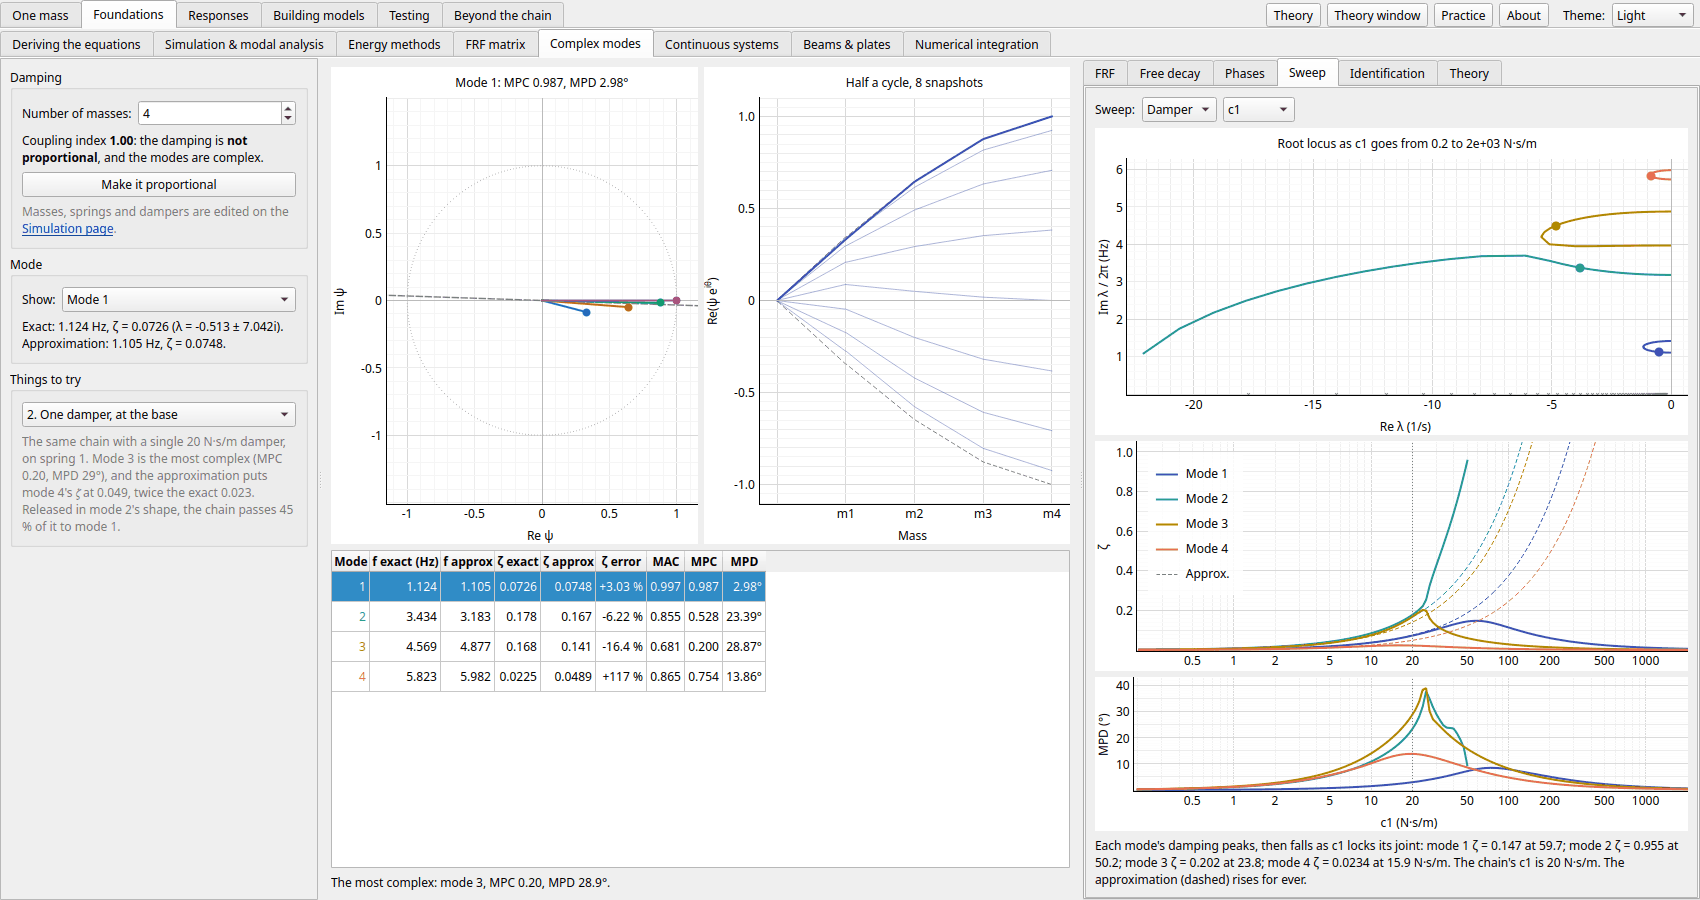
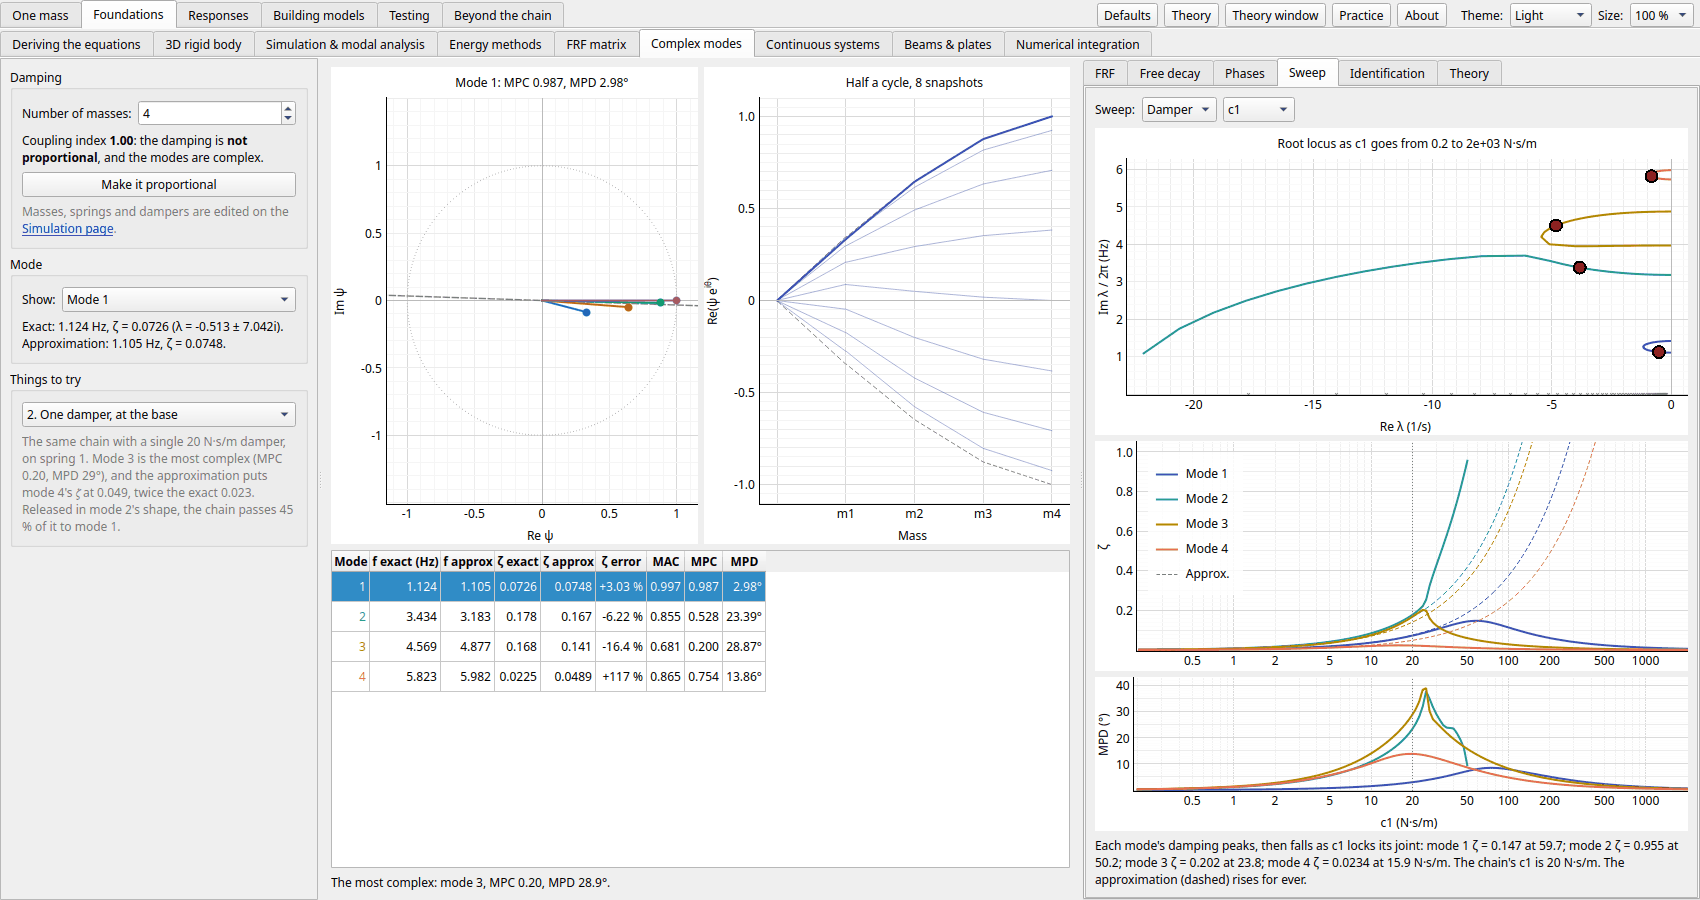
WIP: Self-excited flutter locus drag (#316 B5)

Changed region(s): [[0.0935, 0.0, 0.9976, 0.0622], [0.9665, 0.3733, 0.9976, 0.4044], [0.9041, 0.28, 0.9353, 0.3111]]

diff --git a/src/vib_tutorial/gui/self_excited.py b/src/vib_tutorial/gui/self_excited.py
@@ -2,7 +2,8 @@
 
 Left: the model and its parameters. Centre: its motion from a small start (time history and phase plane), or for
 flutter the two modes' frequencies and damping against the speed. Right: the sweep (the steady amplitude against
-the parameter that drives it, which shows the Hopf point and any hysteresis), and the Theory (its figures:
+the parameter that drives it, which shows the Hopf point and any hysteresis; for flutter the root locus, a pole
+dragged along it setting the speed), and the Theory (its figures:
 gui/self_excited_figures.py). The page has its own models (core/self_excited.py).
 """
 
@@ -29,6 +30,7 @@ from ..core.self_excited import (
     settled_amplitude,
 )
 from . import self_excited_figures, settle_plots
+from .drag import DragDot
 from .lesson import (
     Form,
     TrialBox,
@@ -462,7 +464,10 @@ TIPS = {
     "lift": "<p>Steady, L ∝ θ: the lift follows the pitch alone, a stiffness. Quasi-steady, L ∝ θ + ḣ/U: it also "
     "follows the plunge's ḣ/U, the angle the plunging section sees, which acts as a damping.</p>",
 }
-SWEEP_TIP = "<p>The settled motion against the parameter that drives it; the dotted line is the value set.</p>"
+SWEEP_TIP = (
+    "<p>The settled motion against the parameter that drives it; the dotted line is the value set. For flutter, "
+    "the root locus as the speed rises: drag a pole along it to set the speed, and watch one cross Re λ = 0.</p>"
+)
 
 NOTES_HTML = load_notes("self_excited", figures=self_excited_figures.FIGURES, trials=trials_html(TRIALS))
 
@@ -549,8 +554,21 @@ class SelfExcitedPage(QtWidgets.QWidget):
         self.sweep_stable = marker(7)
         self.sweep_unstable = marker(7)
         self.sweep_line = pg.InfiniteLine(angle=90)
-        for item in (self.sweep_line, self.sweep_theory, self.sweep_curve, self.sweep_stable, self.sweep_unstable):
+        self.flutter_dots = [
+            DragDot("<p>Drag the pole along its locus to set the speed.</p>", size=12) for _ in range(2)
+        ]
+        for item in (
+            self.sweep_line,
+            self.sweep_theory,
+            self.sweep_curve,
+            self.sweep_stable,
+            self.sweep_unstable,
+            *self.flutter_dots,
+        ):
             self.sweep_plot.addItem(item)
+        for dot in self.flutter_dots:
+            dot.setVisible(False)
+            dot.dragged.connect(self._on_flutter_dragged)
         self.sweep2_curve = pg.PlotDataItem()
         self.sweep2_ref = pg.PlotDataItem()
         self.sweep2_line = pg.InfiniteLine(angle=90)
@@ -627,6 +645,19 @@ class SelfExcitedPage(QtWidgets.QWidget):
         self.pages.setCurrentIndex(self.kind.currentIndex())
         self.redraw()
 
+    def _on_flutter_dragged(self, speed: float) -> None:
+        self.boxes["f_speed"].setValue(speed)  # redraws when it changes ...
+        self._place_flutter_dots(self.flutter())  # ... but rounded to the box it may not: the dots at its value
+
+    def _place_flutter_dots(self, flutter: Flutter) -> None:
+        """The poles at the speed set, on the locus."""
+        now = flutter.poles(self.v("f_speed"))
+        now = now[now.imag > 0]
+        for k, grip in enumerate(self.flutter_dots):
+            grip.setVisible(k < now.size)
+            if k < now.size:
+                grip.place(float(now[k].real), float(now[k].imag) / (2 * np.pi), self.v("f_speed"))
+
     def vdp(self) -> VanDerPol:
         return VanDerPol(self.v("vdp_freq"), self.v("vdp_eps"), self.v("vdp_ref"), self.v("vdp_start"))
 
@@ -660,6 +691,8 @@ class SelfExcitedPage(QtWidgets.QWidget):
             item.setPen(pg.mkPen(color, width=1.5))
         for item, color in zip(self.bottom_items, (c.mass[0], c.mass[1])):
             item.setPen(pg.mkPen(color, width=1.5))
+        for grip in self.flutter_dots:
+            grip.apply_theme()
         dot = QtCore.Qt.PenStyle.DotLine
         for line in (self.top_line, self.bottom_line, self.sweep_line, self.sweep2_line):
             line.setPen(pg.mkPen(c.grey, width=1.5, style=dot))
@@ -816,6 +849,8 @@ class SelfExcitedPage(QtWidgets.QWidget):
             self.sweep2_ref,
         ):
             item.setData([], [])
+        for grip in self.flutter_dots:  # shown on flutter's locus only
+            grip.setVisible(False)
         for p in (self.sweep_plot, self.sweep2_plot):
             p.getPlotItem().legend.clear()
         legend = self.sweep_plot.getPlotItem().legend
@@ -888,6 +923,11 @@ class SelfExcitedPage(QtWidgets.QWidget):
             poles = np.array([flutter.poles(float(u)) for u in U])
             up = np.where(poles.imag > 0, poles, np.nan)
             self.sweep_stable.setData(up.real.ravel(), (up.imag / (2 * np.pi)).ravel())
+            on = np.isfinite(up)  # the dots' path: every pole on the locus, its parameter the speed
+            speeds = np.broadcast_to(U[:, None], up.shape)[on]
+            for grip in self.flutter_dots:
+                grip.set_path(up[on].real, up[on].imag / (2 * np.pi), speeds)
+            self._place_flutter_dots(flutter)
             legend.addItem(
                 self.sweep_stable, f"poles, 0 to 1.3 × the {'flutter' if np.isfinite(Uf) else 'divergence'} speed"
             )

diff --git a/tests/test_drag.py b/tests/test_drag.py
@@ -252,3 +252,35 @@ def test_dragging_a_pole_along_the_complex_modes_sweep_sets_the_element_on_relea
     for _ in range(3):
         app.processEvents()
     assert all(d.param == pytest.approx(seen[-1]) for d in p.sweep_dots if d.isVisible())  # redrawn there
+
+
+def test_dragging_a_pole_along_the_flutter_locus_sets_the_speed(main_window, app):
+    from vib_tutorial.gui.self_excited import Kind
+
+    w = main_window
+    w.resize(1280, 800)
+    p = w.self_excited_page
+    w.pages.setCurrentWidget(p)
+    p.load_setup(dict(kind=Kind.FLUTTER, values={"f_speed": 25.0}))  # past flutter: one pole right of Re = 0
+    p.sweep_plot.grab()
+    for _ in range(5):
+        app.processEvents()
+    dots = p.flutter_dots
+    assert all(d.isVisible() and d.param == pytest.approx(25.0) for d in dots)
+    assert max(d.pos().x() for d in dots) > 0  # unstable
+    dot = max(dots, key=lambda d: d.pos().x())
+    x, y, u = dot._x, dot._y, dot._p
+    start = scene_at(p.sweep_plot, dot.pos().x(), dot.pos().y())
+    near = np.flatnonzero(np.abs(u - 10.0) < 0.5)  # each pole at ~10 m/s, below the flutter speed
+    far = [(scene_at(p.sweep_plot, x[i], y[i]) - start).manhattanLength() for i in near]
+    target = int(near[np.argmax(far)])
+    assert max(far) > 40
+    drag(p.sweep_plot, start, scene_at(p.sweep_plot, x[target], y[target]), app)
+    assert p.v("f_speed") == pytest.approx(u[target], abs=0.1)  # the box follows (to its 0.1 m/s) ...
+    assert all(d.isVisible() and d.param == pytest.approx(p.v("f_speed")) for d in dots)  # ... the poles too
+    assert max(d.pos().x() for d in dots) < 0  # below flutter: both stable
+
+    p.load_setup(dict(kind=Kind.VDP, values={}))  # another model's sweep: no locus, no dots
+    for _ in range(3):
+        app.processEvents()
+    assert not any(d.isVisible() for d in dots)

diff --git a/src/vib_tutorial/gui/active_control.py b/src/vib_tutorial/gui/active_control.py
@@ -641,7 +641,10 @@ class ActiveControlPage(QtWidgets.QWidget):
             self.redraw()
 
     def _on_locus_dragged(self, gain: float) -> None:
-        self.gain.setValue(gain)  # redraws, the dots with it
+        if not self.gain.value() == round(gain, self.gain.decimals()):
+            self.gain.setValue(gain)  # redraws, the dots with it
+        else:  # the box rounds it to what it has: the dots back where it is
+            self._draw_tab()
 
     def redraw(self) -> None:
         self._dirty = False

diff --git a/docs/beyond-the-chain.md b/docs/beyond-the-chain.md
@@ -147,7 +147,8 @@ Motion that feeds itself, four ways: van der Pol's oscillator (negative damping 
 cycle, and relaxation oscillations), galloping of a square section in a wind (Den Hartog's criterion and
 the hysteresis between its branches), vortex-induced vibration with a wake oscillator (lock-in), and
 two-mode flutter of a wing section, its root locus crossing into instability as the airspeed rises (in steady
-lift by coalescence; in quasi-steady lift the pitch mode goes on its own).
+lift by coalescence; in quasi-steady lift the pitch mode goes on its own). Drag a pole along the locus and
+the speed follows, so you can walk it across Re λ = 0.
 
 ![Self-excited vibration page, flutter: a wing section with plunge at 3 Hz and pitch at 6 Hz; in steady lift; as the airspeed rises their frequencies close in and, nearly met, the plunge-like mode's damping crosses zero at 20.7 m/s, about half the 39 m/s divergence speed](images/self_excited.png)
 

diff --git a/docs/foundations.md b/docs/foundations.md
@@ -311,7 +311,8 @@ complex: each mass peaks at its own time, and the nodes move. It follows the cha
 - **Sweep**: one damper (or spring) swept over four decades, the rest of the chain as it is: each mode's
   exact pole (the root locus), its damping ratio exact and approximated, and its MPD. A damper's modes damp
   more as it grows, peak, and fall again as it locks its joint and the modes become the locked chain's,
-  one pair leaving as overdamped roots; the approximation's ζ grows for ever.
+  one pair leaving as overdamped roots; the approximation's ζ grows for ever. Drag a pole along its
+  locus and every mode's pole slides with it; let go and the chain takes that value.
 - **Identification**: an FRF column with a little noise fitted by LSFD on the exact poles, with complex
   modes and with real (normal) modes: their shapes' MAC with the exact ψ and the undamped φ, the
   complex fit's MPC, and how far each fit's FRF misses.
